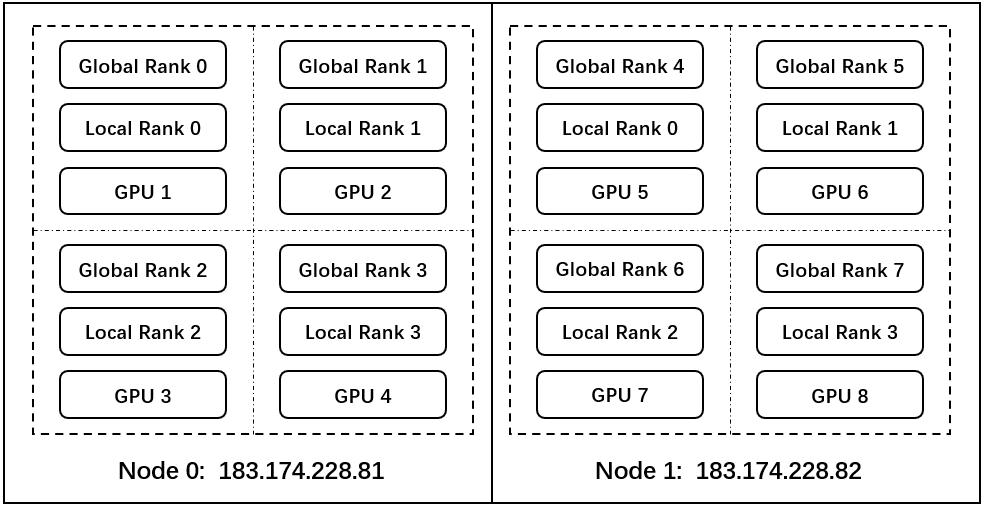
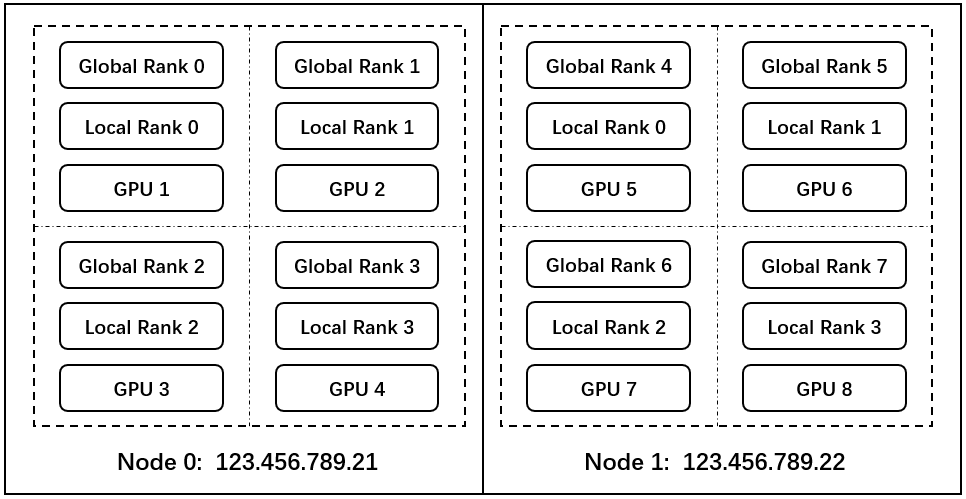
FIX: mask the ip information

diff --git a/docs/source/get_started/distributed_training.rst b/docs/source/get_started/distributed_training.rst
@@ -45,7 +45,7 @@ For more details of data config, please refer to :doc:`../user_guide/config/data
 
 2. Choose a model:
 >>>>>>>>>>>>>>>>>>>>>>>>>
-In RecBole, we implement 73 recommendation models covering general recommendation, sequential recommendation,
+In RecBole, we implement more than 100 recommendation models covering general recommendation, sequential recommendation,
 context-aware recommendation and knowledge-based recommendation. You can choose a model from our :doc:`../user_guide/model_intro`.
 Here we choose BPR model to train and test. 
 
@@ -111,7 +111,7 @@ In above example, you can create a new python file (e.g., `run_a.py`) on node A,
         model = 'BPR',
         dataset = 'ml-100k',
         config_file_list = ['test.yaml'],
-        ip = '183.174.228.81',
+        ip = '123.456.789.21',
         port = '5678',
         world_size = 8,
         nproc = 4,
@@ -149,7 +149,7 @@ Similarly, you can create a new python file (e.g., `run_b.py`) on node B, and wr
         model = 'BPR',
         dataset = 'ml-100k',
         config_file_list = ['test.yaml'],
-        ip = '183.174.228.81',
+        ip = '123.456.789.22',
         port = '5678',
         world_size = 8,
         nproc = 4,
